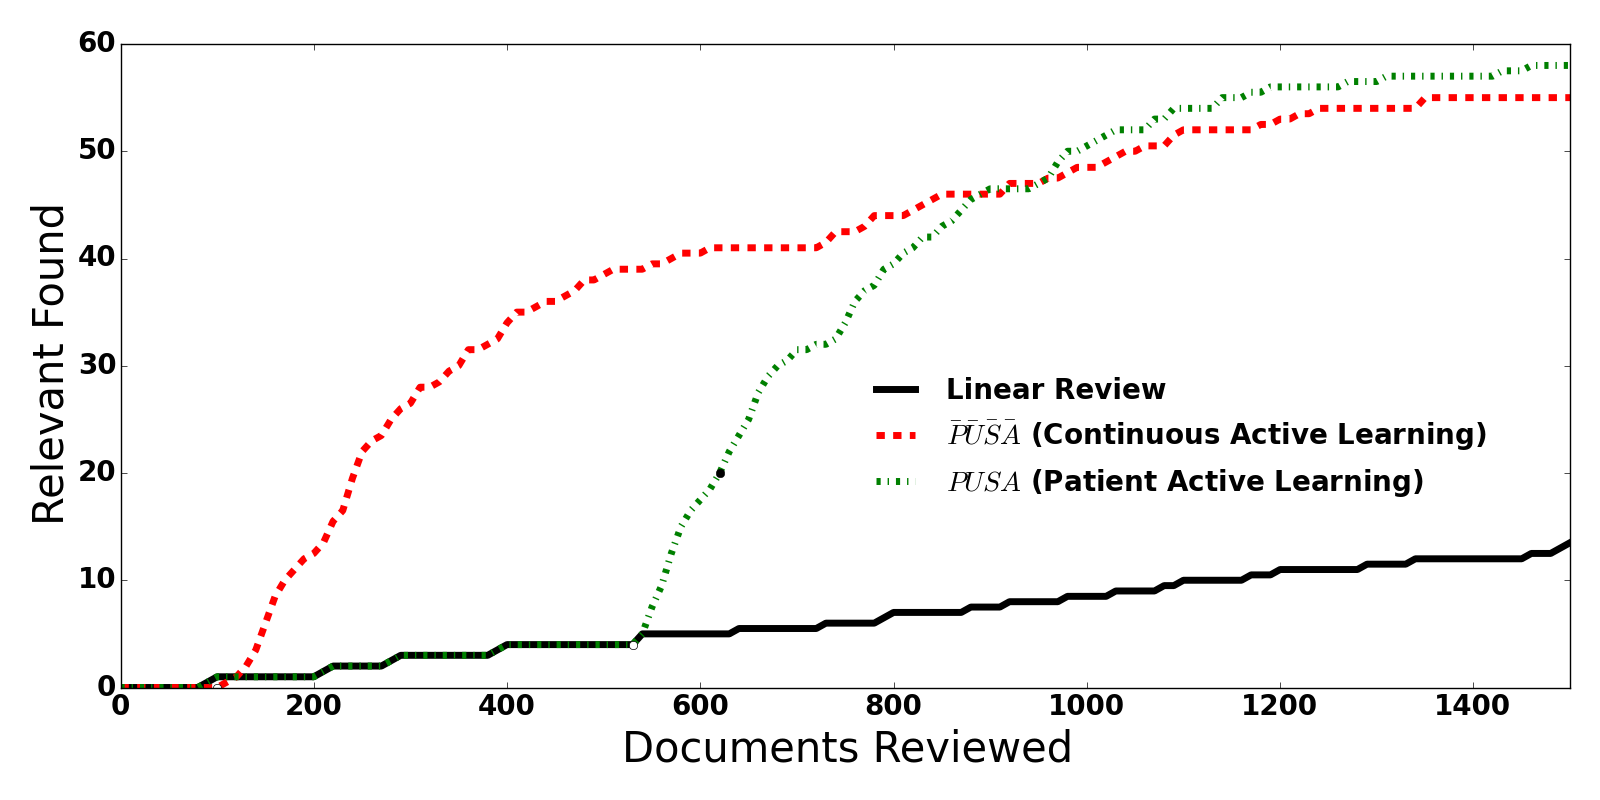
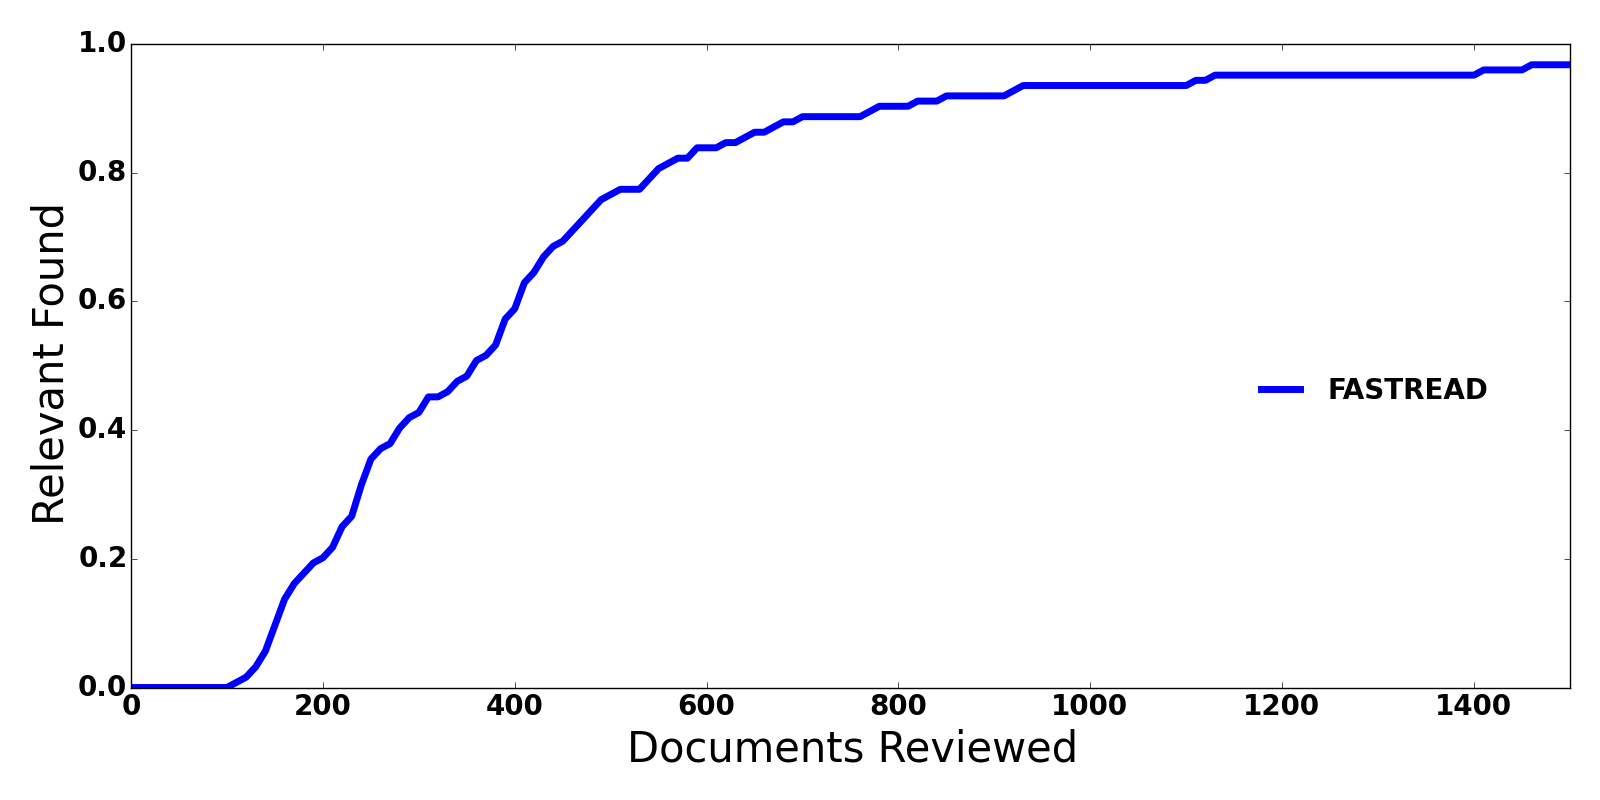
tmp

diff --git a/Learning_assisted_review/src/runner.py b/Learning_assisted_review/src/runner.py
@@ -1314,18 +1314,22 @@ def demo_draw(set,far):
     medians1, iqrs1 = wrap_repeat(result1)
     medians5, iqrs5 = wrap_repeat(result5)
     # iqrs0 = rescale(iqrs0)
-    # medians1 = rescale(medians1)
+    medians1 = rescaleY(medians1,62)
     # iqrs1 = rescale(iqrs1)
     #################
     lines = ['-', '--', '-.', ':']
 
-    line, = plt.plot(medians5['x'][:far], medians5["linear_review"][:far],label="Linear Review",linestyle=lines[0], color='black')
-    line, = plt.plot(medians1['x'][:far], medians1["continuous_active"][:far], label="$\\bar{P}\\bar{U}\\bar{S}\\bar{A}$ (Continuous Active Learning)",linestyle=lines[1],color="red")
-    line, = plt.plot(medians5['x'][:far], medians5["aggressive_undersampling"][:far], label="$PUSA$ (Patient Active Learning)",linestyle=lines[2],color="green")
-    plt.plot(medians5['x'][int(medians5['begin'])], medians5["linear_review"][int(medians5['begin'])], color="white", marker='o')
-    plt.plot(medians1['x'][int(medians1['begin'])], medians1["linear_review"][int(medians1['begin'])], color="white", marker='o')
-    plt.plot(medians5['x'][int(medians5['stable'])], medians5["aggressive_undersampling"][int(medians5['stable'])], color="black", marker='o')
-    plt.ylim([0,60])
+    # line, = plt.plot(medians5['x'][:far], medians5["linear_review"][:far],label="Linear Review",linestyle=lines[0], color='black')
+    # line, = plt.plot(medians1['x'][:far], medians1["continuous_active"][:far], label="$\\bar{P}\\bar{U}\\bar{S}\\bar{A}$ (Continuous Active Learning)",linestyle=lines[1],color="red")
+    # line, = plt.plot(medians5['x'][:far], medians5["aggressive_undersampling"][:far], label="$PUSA$ (Patient Active Learning)",linestyle=lines[2],color="green")
+    # plt.plot(medians5['x'][int(medians5['begin'])], medians5["linear_review"][int(medians5['begin'])], color="white", marker='o')
+    # plt.plot(medians1['x'][int(medians1['begin'])], medians1["linear_review"][int(medians1['begin'])], color="white", marker='o')
+    # plt.plot(medians5['x'][int(medians5['stable'])], medians5["aggressive_undersampling"][int(medians5['stable'])], color="black", marker='o')
+
+
+    line, = plt.plot(medians1['x'][:far], medians1["new_continuous_aggressive"][:far],label="FASTREAD",linestyle=lines[0], color='blue')
+
+    plt.ylim([0,1])
     plt.xlim([0,1500])
     plt.ylabel("Relevant Found")
     plt.xlabel("Documents Reviewed")
